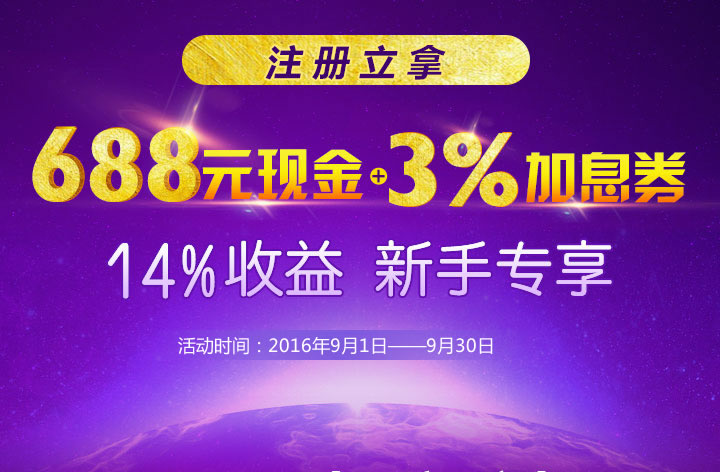
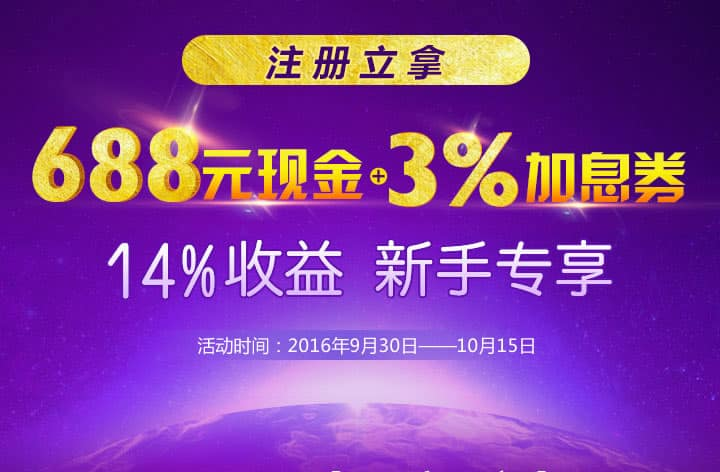
fix(活动时间) 活动时间修改

diff --git a/app/styles/activity.less b/app/styles/activity.less
@@ -1356,7 +1356,7 @@ input::-webkit-inner-spin-button {
             }
             span {
               top: .8rem;
-              right: 0;
+              right: -1rem;
             }
             .process{
               position: relative;
